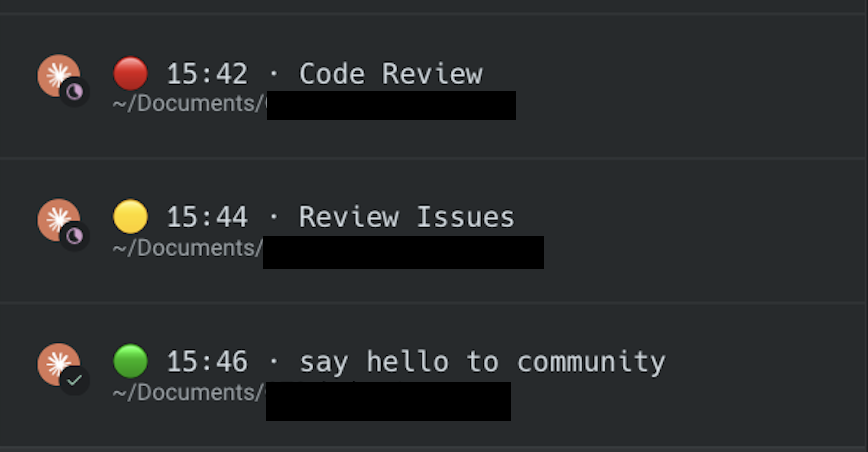
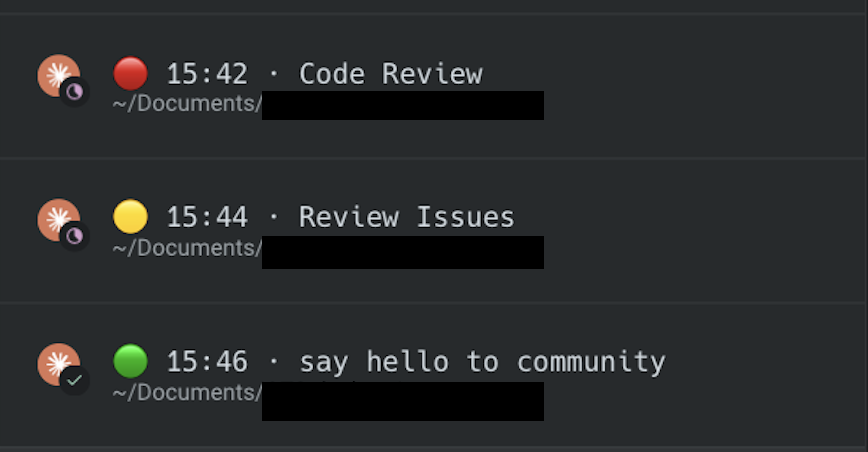
Cover the directory names in the screenshot, and stock the repo
Two of these were in #2 and did not land: it was merged from its first
commit, so the screenshot went public with the redaction unfinished.

The bars drawn over the three paths started a pixel or two after the name
did, so the left edge of the first character survived in two of the three
rows — legible at 2x, and the name belongs to a client project. The
differing bar widths also gave away how long each name was. All three are
repainted from the trailing slash of ~/Documents/ to one common right
edge, so what is left says only that the tab is somewhere under
~/Documents. Verified by scanning the pixels of each path line: the bars
are solid black and nothing bright survives beside them.

The model call is already documented, from #1. What is left is a
configuration section, because the switches are introduced one at a time
across three sections and there was nowhere to look them up — including
WARP_TAB_CLOCK_LLM_MODEL and _LLM_TIMEOUT, which had no option and no
mention outside that prose.

The rest is what a visitor looks for and this repository did not have:

- SECURITY.md — what the hooks can reach, what leaves the machine, and
  where to report privately. Private vulnerability reporting is now on
  for the repository, which is what that file and the issue-form link
  point at.
- CONTRIBUTING.md — the three checks, and the constraints the hooks work
  under that are easy to break by accident.
- CHANGELOG.md — 1.0.0 through 1.4.0, reconstructed from the log.
[…]

diff --git a/CHANGELOG.md b/CHANGELOG.md
@@ -1,0 +1,64 @@
+# Changelog
+
+Versions are the plugin's, from `.claude-plugin/plugin.json`.
+
+## 1.4.0 — 2026-08-03
+
+- The title leads with a state, so the tab says whose turn it is: 🟡 while a turn
+  runs, 🔴 when Claude wants a permission decision, 🟢 once the answer landed.
+  Every emission restamps the clock, so the time is when the state last changed
+  rather than only when Claude last replied.
+- `PostToolUse` returns a red tab to 🟡 once a permission is granted, without
+  spending an emission on each of the dozens of tool calls in a turn.
+- Turn the dot off with the **Colour the tab by what the session is doing**
+  option or `WARP_TAB_CLOCK_NO_STATE=1`.
+
+## 1.3.0 — 2026-08-02
+
+- A session opened with a command is named after the command:
+  `/review-summary <url>` gives `Review summary`. Arguments never reach the
+  title, which keeps URLs and pasted context out of it. Namespaced commands use
+  their leaf, and a `#2121` among the arguments is still taken as a ref.
+- Commands that only operate Claude Code — `/clear`, `/login`, `/plugin` and
+  their like — name nothing and leave the tab as it was.
+- Previously any prompt starting with `/` was dropped, which left such sessions
+  on the last fallback there is: the project directory name.
+
+## 1.2.0 — 2026-08-02
+
+- The derived label is now a placeholder that a one-shot headless Claude rewrites
+  into the actual topic — `Przegląd repo FE` rather than
+  `przejrzyj szybko moje repo fe`. It runs detached, so the turn is never held up
+  for the call.
+- **This sends the first prompt of a session to the API**, once per session, on
+  Haiku. Turn it off with the **Let a model name the tab** option or
+  `WARP_TAB_CLOCK_NO_LLM_NAME=1`.
+- The spawned session cannot disturb the tab it names: it carries a marker that
+  stops both hooks inside it, and an empty tab uuid so an older installed copy
+  that predates the marker cannot reach the live tab's state file. A failed or
+  unauthenticated CLI leaves the placeholder rather than naming the tab after the
+  error.
+
+## 1.1.0 — 2026-08-02
+
+- Labels are derived from the work rather than from the prompt verbatim:
+  `<kind> <ref>`, as in `Code review #2121` or `Fix #2321`. The kind comes from
+  the verbs in the prompt, recognised in English and Polish; the ref from a
+  `#number` or an issue key, falling back to one parsed out of the current git
+  branch.
+- Renaming follows the ref, so follow-ups like "add a test" leave the title
+  alone instead of flickering on every message.
+- `teardown.sh` also sweeps a v1 install that lives outside `CLAUDE_CONFIG_DIR`.
+  It previously reported success while leaving v1 firing on every prompt.
+
+## 1.0.0 — 2026-08-02
+
+- Shipped as a Claude Code plugin: `/plugin marketplace add Xoviec/warp-claude-tab-clock`.
+  The hooks no longer have to be wired into `settings.json` by hand — run
+  `teardown.sh` once to clear a v1 install.
+- Configurable default tab label.
+
+## Before 1.0.0
+
+- First version: a live clock and a label in the Warp tab title, installed by
+  script into `~/.claude/settings.json`.

diff --git a/README.md b/README.md
@@ -1,6 +1,11 @@
 # warp-tab-clock
 
-Puts a live clock in your Warp tab title while you work in Claude Code.
+[![test](https://github.com/Xoviec/warp-claude-tab-clock/actions/workflows/test.yml/badge.svg)](https://github.com/Xoviec/warp-claude-tab-clock/actions/workflows/test.yml)
+[![plugin](https://img.shields.io/badge/dynamic/json?url=https%3A%2F%2Fraw.githubusercontent.com%2FXoviec%2Fwarp-claude-tab-clock%2Fmain%2F.claude-plugin%2Fplugin.json&query=%24.version&label=plugin&color=blue)](.claude-plugin/plugin.json)
+[![license: MIT](https://img.shields.io/badge/license-MIT-blue.svg)](LICENSE)
+
+Puts a live clock in your Warp tab title while you work in Claude Code, and a
+dot that says whose turn it is.
 
 ![Three Warp tabs, each with a coloured dot, a time and a label: red 15:42 · Code Review, yellow 15:44 · Review Issues, green 15:46 · say hello to community.](docs/tab-bar.png)
 
@@ -212,6 +217,24 @@ Saved names are not garbage-collected: `<state>` keeps one file per Warp tab you
 have ever used. `rm -rf ~/.claude/warp-tab-name` is safe at any time, and
 `./teardown.sh` does it for you.
 
+## Configuration
+
+Every option lives in `/plugin configure warp-tab-clock@xoviec`, and every one of
+them has an environment variable that works without the plugin. The two are
+independent, so either turns a feature off — collected here because the sections
+above introduce them one at a time.
+
+| Option | Default | Turn off with |
+|---|---|---|
+| Colour the tab by what the session is doing | on | `WARP_TAB_CLOCK_NO_STATE=1` |
+| Derive labels from the first prompt | on | `WARP_TAB_CLOCK_NO_AUTONAME=1` |
+| Let a model name the tab | on | `WARP_TAB_CLOCK_NO_LLM_NAME=1` |
+
+**Default tab label** is the fourth option and a value rather than a switch; a
+`<state>/default` file holds the same thing and takes priority over it. Two
+variables have no option at all: `WARP_TAB_CLOCK_LLM_MODEL` (default `haiku`) and
+`WARP_TAB_CLOCK_LLM_TIMEOUT` (default `25`, seconds).
+
 ## How it works
 
 Claude Code hooks, no daemon and no polling. `warp-tab-time.sh` resolves the
@@ -347,6 +370,14 @@ directory-based names back.
 ./tests/test-hooks.sh              # hooks, against a throwaway config dir
 claude plugin validate . --strict  # manifests
 ```
+
+The tests need only `bash` and `jq`, take no arguments, and never touch your real
+`~/.claude`. [CONTRIBUTING.md](CONTRIBUTING.md) has the constraints the hooks work
+under — the ones that are easy to break by accident — and
+[CHANGELOG.md](CHANGELOG.md) has what changed in each version.
+
+Issues and pull requests are welcome. What this plugin can reach on your machine,
+and what it sends where, is spelled out in [SECURITY.md](SECURITY.md).
 
 ## License
 

diff --git a/CONTRIBUTING.md b/CONTRIBUTING.md
@@ -1,0 +1,54 @@
+# Contributing
+
+Issues and pull requests are welcome. This is a small project — four shell
+scripts and two manifests — so there is no process beyond what is below.
+
+## Reporting a problem
+
+Most reports are "the title never changes", and most of those are a manual tab
+name in Warp. Please walk the [Troubleshooting](README.md#troubleshooting)
+section first: it separates the three ways the title gets overwritten, and the
+last two checks there tell you whether the problem is this plugin or Warp's own
+configuration.
+
+If it survives that, open an issue with the versions of Claude Code and Warp, and
+what the tab title actually read.
+
+## Working on the scripts
+
+```bash
+./tests/test-hooks.sh              # hooks, against a throwaway config dir
+claude plugin validate . --strict  # manifests
+shellcheck scripts/*.sh setup.sh teardown.sh tests/*.sh
+```
+
+CI runs all three on Linux and macOS, and a pull request has to be green. The
+tests take no arguments, need only `bash` and `jq`, and never touch your real
+`~/.claude` — they point `CLAUDE_CONFIG_DIR` at a temporary directory and stub
+the `claude` CLI. Add a case there for anything you change; the file is a flat
+list of `assert_eq` calls, so a new one is two lines.
+
+Some constraints the hooks work under, which are easy to break by accident:
+
+- **A `UserPromptSubmit` hook must print nothing to stdout** except the JSON
+  control object. Anything else is injected into the prompt as context.
+- **The escape sequence is returned as JSON**, never written to `/dev/tty`, and
+  Claude Code validates it against an allowlist. See
+  [How it works](README.md#how-it-works).
+- **`PostToolUse` fires dozens of times per turn.** Work done there has to stay
+  at one file read unless the state actually needs changing.
+- **Anything spawned by the hooks runs the hooks again.** The
+  `WARP_TAB_CLOCK_CHILD` marker is what stops that; keep it on any new spawn.
+- **Nothing derived from a prompt should reach the title unvetted.** Titles are
+  persisted by Warp, and show up in screenshots and screen shares.
+
+## Versioning
+
+Bump `version` in `.claude-plugin/plugin.json` and add a `CHANGELOG.md` entry in
+the same commit as the change. Minor for a new behaviour, patch for a fix.
+
+## Commits
+
+One change per commit, present tense in the subject, and a body that says what
+was wrong before rather than what the diff does. `git log` is the closest thing
+this project has to design documentation.

diff --git a/SECURITY.md b/SECURITY.md
@@ -1,0 +1,42 @@
+# Security
+
+## Reporting a vulnerability
+
+Use GitHub's private reporting: **Security → Report a vulnerability** on this
+repository. Please do not open a public issue for anything exploitable.
+
+Expect an acknowledgement within a week. This is a spare-time project, so a fix
+lands when it lands — if that is not fast enough for you, the whole thing is four
+shell scripts and a fork is a reasonable answer.
+
+## Supported versions
+
+Only the latest version. There are no maintenance branches.
+
+## What this plugin can do on your machine
+
+Worth knowing before you install anything that hooks Claude Code:
+
+- **Its scripts run on every prompt, every tool call and every reply.** They are
+  Claude Code hooks; that is the mechanism. `scripts/` is 430 lines of shell and
+  reading it is the only real assurance.
+- **It writes to two places.** One file per Warp tab under
+  `${CLAUDE_CONFIG_DIR:-$HOME/.claude}/warp-tab-name`, and — only if you run
+  `setup.sh` — a marked block in `~/.zshrc`, backed up first. `teardown.sh`
+  removes both.
+- **It sends the first prompt of each session to the Anthropic API**, unless you
+  turn that off. The tab's topic is written by a model, once per session.
+  [Auto-naming](README.md#auto-naming) describes the call and the two ways to
+  disable it; [Configuration](README.md#configuration) is the short version.
+- **It puts text derived from your prompts into the tab title.** Warp persists
+  titles to its own database, and they appear in screenshots and screen shares,
+  so a label outlives the session. That can be turned off too.
+- **It does not phone anywhere else, read your code, or send anything to a third
+  party.** No network calls other than the model call above, and no telemetry.
+
+## Trust boundary worth naming
+
+Hook output reaches your terminal as an escape sequence. Claude Code validates it
+against an allowlist (`OSC 0/1/2/9/99/777` plus `BEL`) before writing it, and
+this plugin only ever emits `OSC 0`. If you find a way to get anything else past
+that from a tab label, that is a vulnerability and worth reporting.

diff --git a/CODE_OF_CONDUCT.md b/CODE_OF_CONDUCT.md
@@ -1,0 +1,19 @@
+# Code of Conduct
+
+This project follows the
+[Contributor Covenant](https://www.contributor-covenant.org/version/2/1/code_of_conduct/),
+version 2.1. The full text is at that link and applies here as written.
+
+The short version: be decent to people. Criticise code, not the person who wrote
+it. Assume the other party is trying to help.
+
+## Reporting
+
+Report unacceptable behaviour to the maintainer through GitHub —
+[@Xoviec](https://github.com/Xoviec) — by direct message or by opening an issue
+if the matter is already public. Reports are handled privately, and the person
+who reported is not named without their agreement.
+
+This is a one-maintainer project, so there is no committee behind that: if the
+problem is with the maintainer, the Contributor Covenant's own escalation advice
+is the honest answer, and forking is always available.
